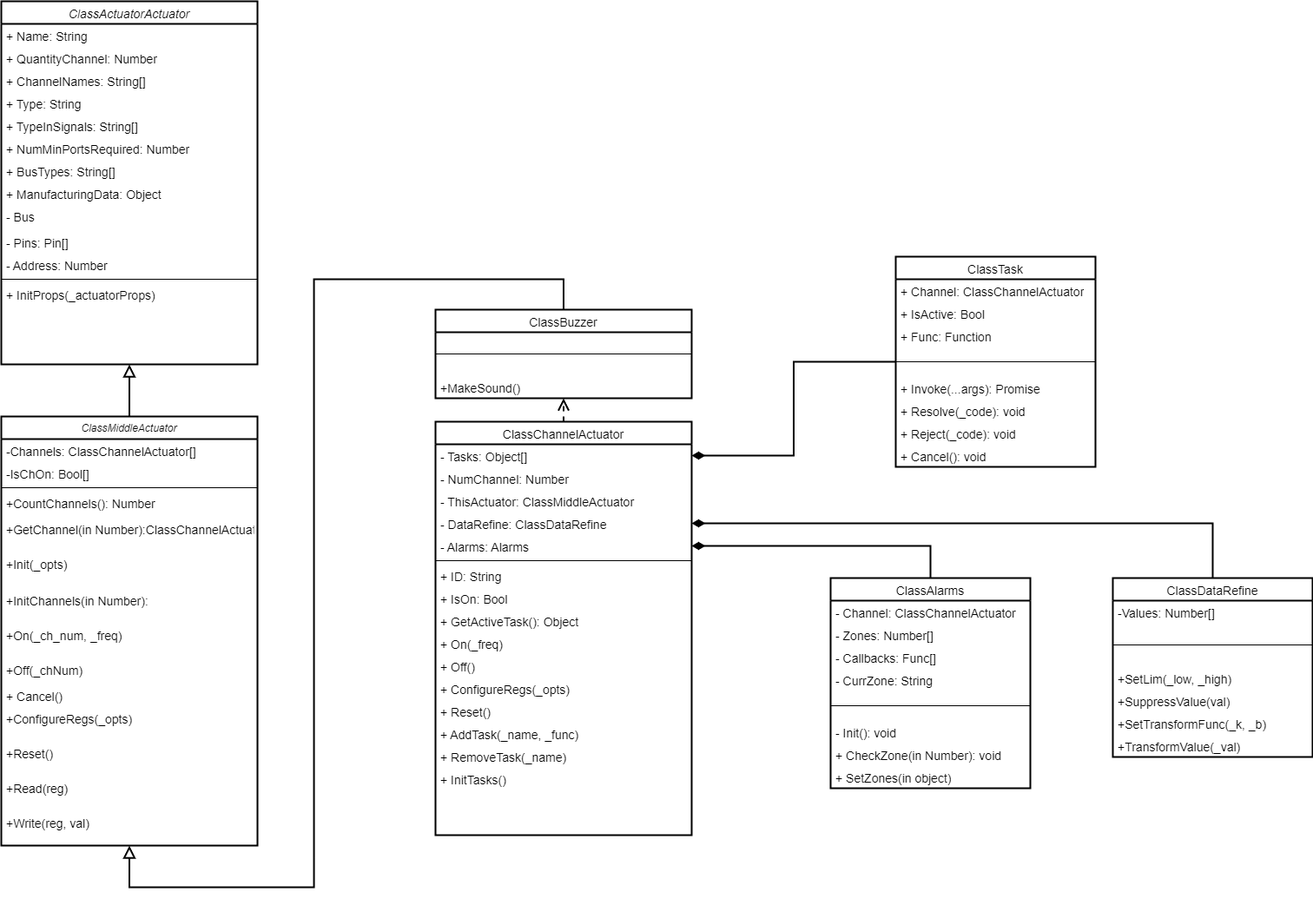
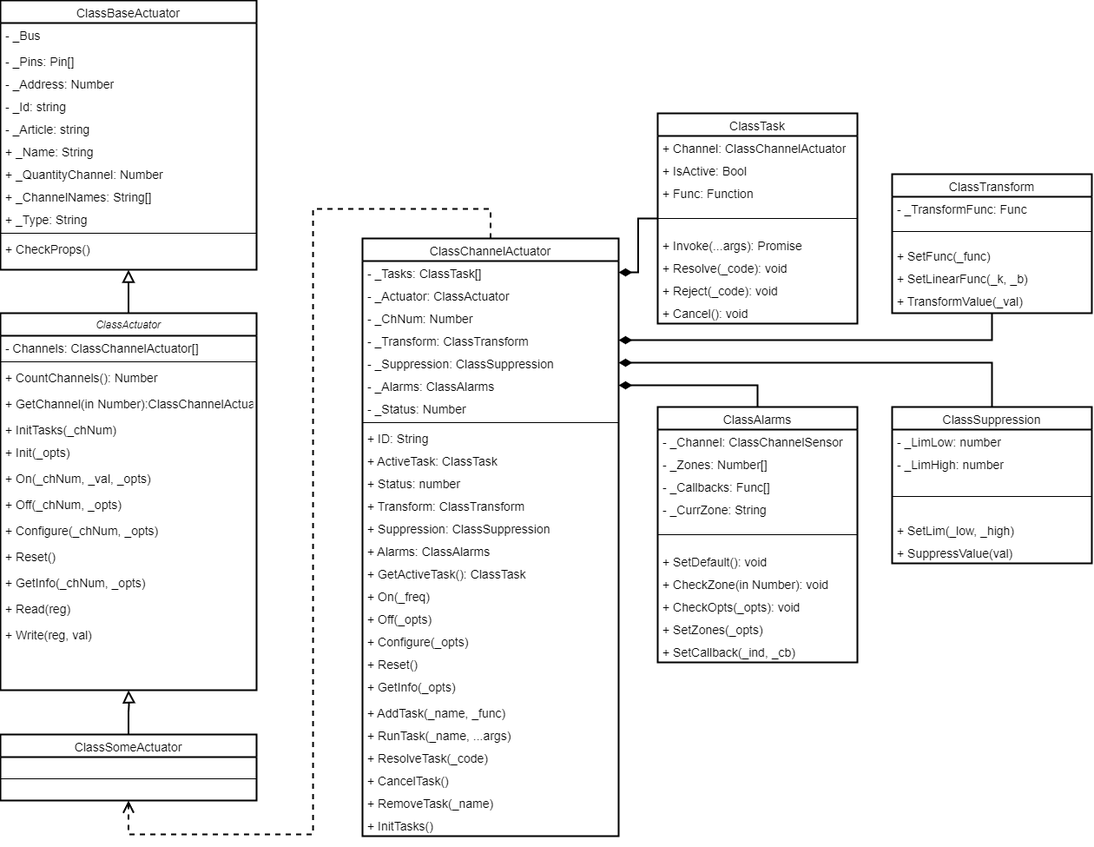
doc: обновлена документация

Changed region(s): [[0.0, 0.0, 1.0, 1.0], [0.9905, 0.1846, 1.0, 0.3692]]

diff --git a/README.md b/README.md
@@ -13,12 +13,12 @@
 ### Описание
 <div style = "color: #555">
 
-Модуль Actuator предназначен для обеспечения разработчиков функционалом для удобной и эффективной работы с актуаторами в рамках фреймворка EcoLight. 
+Модуль Actuator предназначен для обеспечения разработчиков функционалом для удобной и эффективной работы с актуаторами в рамках фреймворка EcoLite. 
 Наделяет актуаторы полями и методами, которые покрывают типовые задачи идентификации и управления. Для этого модуль создает унифицированный интерфейс, разделяя объект актуатора на каналы. 
 Каждый канал отвечает за отдельный аспект работы актуатора.
 Данный подход обеспечивает единообразное взаимодействие с различными типами актуаторов, упрощая процесс учета и делегирования команд.
 
-Одной из важнейших особенностей модуля является заложенный подход к созданию, организации и управлению наборами инструкций, которые выполняются актуатором в асинхронном режиме. В парадигме фреймворка EcoLight такие наборы инструкций именуются тасками (от англ. tasks). Модуль каждого актуатора имеет набор базовых тасков, а функционал рассматриваемой архитектуры позволяет расширять их коллекцию даже во время выполнения программы.   
+Одной из важнейших особенностей модуля является заложенный подход к созданию, организации и управлению наборами инструкций, которые выполняются актуатором в асинхронном режиме. В парадигме фреймворка EcoLite такие наборы инструкций именуются тасками (от англ. tasks). Модуль каждого актуатора имеет набор базовых тасков, а функционал рассматриваемой архитектуры позволяет расширять их коллекцию даже во время выполнения программы.   
 
 Реализованный подход отличается классической работы с актуаторами набором механизмов, которые позволяют
 
@@ -26,22 +26,22 @@
 2. Отменять выполнение последнего вызванного таска;
 3. Составлять цепочки с упорядоченным вызовом тасков.
 
-Также заложенный в модуль функционал включает в себя поэтапную автоматическую обработку вх. сигнала на канал актуатора, что повышает надежность и удобство работы. Этот процесс включает в себя следующие этапы:
+Также заложенный в модуль функционал включает в себя поэтапную автоматическую обработку вх. сигнала на канал актуатора, что облегчает контроль над входным сигналом. Этот процесс включает в себя следующие этапы:
 - Супрессия: входные данные подвергаются ограничению с использованием супрессорной функции. Это обеспечивает то, что значения с актуатора находятся в заданных пределах, что позволяет учесть границы работы актуатора или предотвратить определенные ошибки; 
 - Трансформация линейной функцией: в случаях, когда величину, подаваемую на актуатор необходимо преобразовать (например, задать соответствие между физ.величиной и значением, которое должно быть подано на устройство), применяется линейная функция. Эта функция трансформирует значения согласно коэффициентам, которые задает пользователь;
 - Проверка зоны измерений: значения с актуатора сверяются с зонами измерений, настраиваемые пользователем. Если значение выходит за пределы заданных зон, это активировать соответствующие реакции в виде коллбэков.
 
 Больше об обработке данных в соответствующем [разделе](./README_DATA_REFINE.md#методы). 
 
-Набор классов, обеспечивающих функционал актуатора делитcя на такие части: 
-- Основная, которая состоит из:
-    - ветки классов [ClassAncestorActuator](./README_ANCESTOR.md) и [ClassMiddleActuator](./README_MIDDLE.md), хранящих в себе поля и методы, общих для всех актуаторов;
-    - класса [ClassChannelActuator](README_CHANNEL.md), который представляет собой интерфейс для работы с отдельным каналом актуатора;
-    - класса [ClassTask](README_TASK.md), который представляет сущность таска и осуществляет управление им;
+Набор классов, обеспечивающих функционал датчика, можно условно поделить на следующие части: 
+- Основная:
+    - ветка классов [ClassBaseActuator](./README_ANCESTOR.md) и [ClassActuator](./README_MIDDLE.md), хранящих в себе поля и методы, общие для всех актуаторов;
+    - класс [ClassChannelSensor](README_CHANNEL.md), служит интерфейсом для работы с отдельным каналом актуатора;
 - Сервисная: 
-    - [ClassDataRefine](./README_DATA_REFINE.md) реализует математико-логический аппарат для обработки и корректировки передаваемых значений;
-    - [ClassAlarms](./README_ALARMS.md) добавляет поддержку зон измерения и алармов;  
-- Прикладная - класс, отвечающий за отдельно взятый канал актуатора. Этот класс реализуется вне данного стека наследованием от **ClassMiddleActuator** и реализацией его интерфейсов.
+    - [ClassSuppression и ClassTransform](./README_DATA_REFINE.md) реализует математико-логический аппарат для обработки и корректировки данных с датчика;
+    - [ClassAlarms](./README_ALARMS.md) добавляет поддержку зон измерения и алармов (оповещений/сигналов тревоги);  
+- Прикладная:
+    - классы, наследующиеся от **ClassActuator** и реализующие его функционал для работы с конкретным датчиком. 
 
 <div align='left'>
     <img src="./res/main-diagram.png" alt="Image not found">
@@ -54,42 +54,17 @@
 <div style = "color: #555">
 
 ```js
-//Импорт зависимостей
-const ClassAppError     = require('ModuleAppError.min');
-    require('ModuleAppMath.min').is();
-const ClassMiddleActuator = require('ModuleActuator.min');
-const ClassBuzzer         = require('ModuleBuzzer.min');
-
-//Аргументы для инициализации объекта актуатора
-const actuator_props = ({
-    name: "Buzzer",
-    type: "actuator",
-    channelNames: ['freq'],
-    typeInSignals: ["analog"],
-    quantityChannel: 1,
-    busTypes: [],
-    manufacturingData: {
-        IDManufacturing: [
-            { "Adafruit": "PS1240" }  
-        ],
-        IDsupplier: [
-            { "Adafruit": "PS1240" }  
-        ],
-        HelpSens: "Piezo buzzer"
-    }
-});
 //Инициализация 
-const bz = new ClassBuzzer(actuator_props, { pins: [P2] });
-const ch = bz.GetChannel(0);
+const bz = SensorManager.CreateDevice('00')[0];
 //Запуск работы зуммера с частотой 600 Гц
-ch.On(600);
+bz.On(600);
 //Запуск с другой частотой через 1 сек
 setTimeout(() => { 
-    ch.On(1000);    
+    bz.On(1000);    
 }, 1500);
 //Прекращение работы
 setTimeout(() => { 
-    ch.Off(); 
+    bz.Off(); 
 }, 3000);
 ```
 
@@ -100,13 +75,13 @@ setTimeout(() => {
 
 ```js
 //Вызов одного пика через основной, универсальный таск 
-ch.RunTask('PlaySound', { freq: 300, numRep: 1, prop: 0.5, pulseDur: 800 });  
+bz.RunTask('PlaySound', { freq: 300, numRep: 1, prop: 0.5, pulseDur: 800 });  
 .then(
     // Вызов пика через таск, принимающий частоту и длину импульса 
-    () => ch.RunTask('BeepOnce', 500, 800);
+    () => bz.RunTask('BeepOnce', 500, 800);
 ).then(
     // вызов двойного звукового сигнала
-    () => ch.RunTask('BeepTwice', 800, 500);                   
+    () => bz.RunTask('BeepTwice', 800, 500);                   
 ).then(
     () => { console.log('Done!'); }
 );
@@ -119,7 +94,7 @@ ch.RunTask('PlaySound', { freq: 300, numRep: 1, prop: 0.5, pulseDur: 800 });
 
 ```js
 //Объявление элементарного таска, запускающего зуммер на 3 сек
-ch.AddTask('Beep3sec', (freq) => {
+bz.AddTask('Beep3sec', (freq) => {
     this.On(freq);
     setTimeout(() => {
         this.Off();
@@ -128,7 +103,7 @@ ch.AddTask('Beep3sec', (freq) => {
     }, 3000);
 });
 
-ch.RunTask('Beep3sec', 500);
+bz.RunTask('Beep3sec', 500);
     .then(() => print(`Done after 3 sec!`));
 ```
 
@@ -138,10 +113,10 @@ ch.RunTask('Beep3sec', 500);
 <div style = "color: #555">
 
 ```js
-ch.RunTask('BeepTwice', 500, 1200);
+bz.RunTask('BeepTwice', 500, 1200);
 
 setTimeout(() => {
-    ch.CancelTask();
+    bz.CancelTask();
 }, 1000);
 ```
 

diff --git a/README_MIDDLE.md b/README_MIDDLE.md
@@ -12,7 +12,7 @@
 
 Является ключевой составляющей модуля [Actuator](./README.md). Смысл данного класса заключается в унификации работы с актуаторами и их каналами, что упрощает работу прикладным разработчикам в рамках фрейморка EcoLight. Наследуется от [ClassAncestorActuator](./README_ANCESTOR.md).
 Реализует важнейшие принципы **ModuleActuator**:
-- Обработка вх. сигнала: в точке запуска базового метода работы актуатора есть прослойка, через которую проходит ключевой аргумент (частота), позволяя применять ограничительные функции, трансформирующую линейную функцию и проверку значения на нахождение в заданных зонах. Это позволяет предотвращать ошибки, связанные с передаачей некорректных аргументов (см. подробнее в [ClassDataRefine](./README_DATA_REFINE.md#обработка-значений-с-датчика));
+- Обработка вх. сигнала: в точке запуска базового метода работы актуатора есть прослойка, через которую проходит ключевой аргумент (частота), позволяя применять ограничительные функции, трансформирующую линейную функцию и проверку значения на нахождение в заданных зонах. Это позволяет предотвращать ошибки, связанные с передачей некорректных аргументов (см. подробнее в [ClassDataRefine](./README_DATA_REFINE.md#обработка-значений-с-датчика));
 - Автоматическое создание каналов: при инициализации "реального" актутора рассматриваемый класс автоматически создает [объекты-каналы](./README_CHANNEL.md), которые композируются в поле этого класса. Это упрощает создание и управление каналами актуатора;
 - Определение сигнатур методов: класс определяет сигнатуры основных методов, которые после переопределения будут доступны для работы с "реальными" актуаторами и их каналами. Это обеспечивает единый интерфейс для инициализации, запуска, настройки и управления актуаторами.
 </div>
@@ -21,7 +21,6 @@
 <div style = "color: #555">
 
 - <mark style="background-color: lightblue">_Channels</mark> - массив с автоматически инстанцирующимися объектами ClassChannelActuator;
-- <mark style="background-color: lightblue">_IsChOn</mark> - массив булевых значений, в котором i-й элемент указывает, подается ли сигнал на i-й канал в данный момент.
 </div>
 
 ### Аксессоры
@@ -33,14 +32,14 @@
 ### Методы
 <div style = "color: #555">
 
-- <mark style="background-color: lightblue">InitСhannels()</mark> - инициализирует объекты каналов, запускает обработку аргументов, поступающих на метод On();
-- <mark style="background-color: lightblue">GetInfo()</mark> - обязывает вернуть объект, хранящий информацию об актуаторе;
 - <mark style="background-color: lightblue">Init(_opts)</mark> - обязывает выполнить инициализацию актуатора, применив необходимые для его работы настройки;
-- <mark style="background-color: lightblue">ConfigureRegs(_opts)</mark> - обязывает выполнить дополнительную конфигурацию актуатора. Это настройки, которые необходимы для ряда задач, но могут переопределяться в процессе работы, и потому вынесены из метода Init();
+
 - <mark style="background-color: lightblue">GetChannel(_chNum)</mark> - возвращает объект i-го канала;
-- <mark style="background-color: lightblue">On(_chNum, _val)</mark> - обязывает начать работу определенного канала актуатора;
-- <mark style="background-color: lightblue">Off(_chNum)</mark> - обязывает прекратить подачу сигнала на актуатор;
-- <mark style="background-color: lightblue">Reset()</mark> - обязывает выполнить перезагрузку актуатора;
+- <mark style="background-color: lightblue">On(_chNum, _val, _opts)</mark> - обязывает начать работу определенного канала актуатора;
+- <mark style="background-color: lightblue">Off(_chNum, _opts)</mark> - обязывает прекратить подачу сигнала на актуатор;
+- <mark style="background-color: lightblue">Configure(_chNum, _opts)</mark> - обязывает выполнить дополнительную конфигурацию актуатора;
+- <mark style="background-color: lightblue">Reset(_chNum, _opts)</mark> - обязывает выполнить перезагрузку актуатора;
+- <mark style="background-color: lightblue">GetInfo(_chNum, _opts)</mark> - обязывает вернуть объект, хранящий информацию об актуаторе;
 - <mark style="background-color: lightblue">Read(_reg)</mark> - обязывает выполнить чтение с регистра;
 - <mark style="background-color: lightblue">Write(_reg, _val)</mark> - обязывает выполнить запись в регистр.
 </div>

diff --git a/README_DATA_REFINE.md b/README_DATA_REFINE.md
@@ -1,6 +1,6 @@
 <div style = "font-family: 'Open Sans', sans-serif; font-size: 16px">
 
-# ClassDataRefine
+# ClassTransform
 <div style = "color: #555">
     <p align="center">
     <img src="./res/logo.png" width="400" title="hover text">
@@ -10,40 +10,56 @@
 ### Описание
 <div style = "color: #555">
 
-Сервисный класс из стека [ModuleActuator](README.md). Назначен для обеспечении математической обработки вх.сигнала актуатора. Включает в себя:
-- Супрессию входных значений;
-- Трансформацию линейной функцией.
-Объект класса автоматически инициализируется в поле *_DataRefine* класса [ClassChannelActuator](./README_CHANNEL.md). Методы для преобразования данных вызываются из декоратора к методу *On(_freq)* класса канала.
+Сервисный класс из стека [ModuleActuator](README.md). Предназначен для обеспечении математической обработки входного сигнала актуатора (линейной либо иной).
+
+Объект класса автоматически инициализируется в поле *_Transform* класса [ClassChannelActuator](./README_CHANNEL.md). Методы для преобразования данных вызываются автоматически при обработке значений измерительного канала.
+
 </div>
 
 ### Поля
 <div style = "color: #555">
 
-- <mark style="background-color: lightblue">_Values</mark> - массив с используемыми коэффициентами;
+- <mark style="background-color: lightblue">_TransformFunc</mark> - функция трансформации, которая вызывается из ClassChannelActuator при обработке вх. сигнала. По-умолчанию равна `f(x): x => x` и не влияет на показания, но может быть переопределена пользователем;
+
 </div>
 
 ### Методы
 <div style = "color: #555">
 
-- <mark style="background-color: lightblue">SetOutLim(_limLow, _limHigh)</mark> - устанавливает значения ограничителей входных значений;
-- <mark style="background-color: lightblue">SupressOutValue(_val)</mark> - возвращает число, прошедшее через супрессорную функцию;
-- <mark style="background-color: lightblue">SetTransmissionOut(_k, _b)</mark> - устанавливает коэффициенты k и b трансформирующей функции канала;
-- <mark style="background-color: lightblue">TransformOutValue(_val)</mark> - возвращает значение, прошедшее через трансформирующую функцию.
+- <mark style="background-color: lightblue">SetFunc(_func)</mark> - устанавливает трансформационную функцию для вх. сигнала актуатора. Вызов данного метода без передачи в него аргумента, установит функцию по-умолчанию;
+- <mark style="background-color: lightblue">SetLinearFunc(_k, _b)</mark> - устанавливает линейную функцию с коэффициентами k и b;
+- <mark style="background-color: lightblue">TransformValue(val)</mark> - возвращает значение, прошедшее через трансформирующую функцию.
 
 <div align='left'>
     <img src="./res/math.png" alt="Image not found">
 </div>
-
-<div align='left'>
-    <img src="./res/data_transformation.png" alt="Image not found">
 </div>
 
-</div>
+# ClassSuppression
 
-### Зависимости
+### Описание
 <div style = "color: #555">
 
-- <mark style="background-color: lightblue">[ClassAppError](https://github.com/Konkery/ModuleAppError/blob/main/README.md)</mark>
+Сервисный класс из стека [ModuleActuator](README.md). Предназначен для обеспечении математической обработки вх. сигнала актуатора и позволяет настроить ограничение (супрессию) входных значений.
+
+Объект класса автоматически инициализируется в поле *_Suppression* класса [ClassChannelActuator](./README_CHANNEL.md). Методы для преобразования данных вызываются автоматически при обращении к исполнительному каналу.
+
+</div>
+
+### Поля
+<div style = "color: #555">
+
+- <mark style="background-color: lightblue">_Low</mark> - число, нижняя граница. По-умолчанию **-Infinity**;
+- <mark style="background-color: lightblue">_High</mark> - число, верхняя граница. По-умолчанию **Infinity**;
+
+</div>
+
+### Методы
+<div style = "color: #555">
+
+- <mark style="background-color: lightblue">SetLim(_limLow, _limHigh)</mark> - устанавливает значения ограничителей входных значений;
+- <mark style="background-color: lightblue">SuppressValue(val)</mark> - возвращает число, прошедшее через супрессорную функцию;
+
 </div>
 
 </div>

diff --git a/README_CHANNEL.md b/README_CHANNEL.md
@@ -20,29 +20,34 @@
 ### Поля
 <div style = "color: #555">
 
-- <mark style="background-color: lightblue">_ThisActuator</mark> - ссылка на основной объект актуатора;
-- <mark style="background-color: lightblue">_NumChannel</mark> - номер канала;
-- <mark style="background-color: lightblue">_DataRefine</mark> - объект класса ClassDataRefine;
+- <mark style="background-color: lightblue">_Actuator</mark> - ссылка на основной объект актуатора;
+- <mark style="background-color: lightblue">_ChNum</mark> - номер канала;
 - <mark style="background-color: lightblue">_Alarms</mark> - объект класса ClassAlarms;
+- <mark style="background-color: lightblue">_Transform</mark> - объект класса ClassTransform;
+- <mark style="background-color: lightblue">_Suppression</mark> - объект класса ClassSuppression;
 </div>
 
 ### Аксессоры
 <div style = "color: #555">
 
 - <mark style="background-color: lightblue">CountChannels</mark> - возвращает количество корректно инициализированных каналов типа **ClassChannelActuator**;
+- <mark style="background-color: lightblue">Suppression</mark> - возвращает объект *ClassSuppression*;
+- <mark style="background-color: lightblue">Transform</mark> - возвращает объект *ClassTransform*;
+- <mark style="background-color: lightblue">Alarms</mark> - возвращает объект *ClassAlarms* после его инициализации;
 - <mark style="background-color: lightblue">ID</mark> - возвращает идентификатор актуатора (канала);
-- <mark style="background-color: lightblue">IsOn</mark> - указывает, подается ли сигнал на канал в данный момент;
 - <mark style="background-color: lightblue">ActiveTask()</mark> - возвращает активный в данный момент таск либо null.
 </div>
 
 ### Методы
 <div style = "color: #555">
 
-- <mark style="background-color: lightblue">On(_freq)</mark>
-- <mark style="background-color: lightblue">Off()</mark> 
-- <mark style="background-color: lightblue">ConfigureRegs()</mark>
+- <mark style="background-color: lightblue">On(_val, _opts)</mark>
+- <mark style="background-color: lightblue">Off(_opts)</mark> 
+- <mark style="background-color: lightblue">Configure(_opts)</mark>
+- <mark style="background-color: lightblue">Reset(_opts)</mark>
+- <mark style="background-color: lightblue">GetInfo(_opts)</mark>
 
-Перечисленные выше методы ссылаются на методы, объявленные в **ClassMiddleActuator** и реализованные в прикладном классе акутатора. Их развернутое описание [по ссылке](./README_MIDDLE.md#методы).
+Перечисленные выше методы ссылаются на методы, объявленные в **ClassActuator** и реализованные в прикладном классе актутатора. Их развернутое описание [по ссылке](./README_MIDDLE.md#методы).
 
 - <mark style="background-color: lightblue">InitTasks()</mark> - инициализирует базовые таски актуатора;
 - <mark style="background-color: lightblue">AddTask(_name, _func)</mark> - создает новый таск на основе переданной функции и помещает его в коллекцию по переданному имени. Создает одноименный геттер на данный таск;

diff --git a/README_ANCESTOR.md b/README_ANCESTOR.md
@@ -16,34 +16,28 @@
 ### Конструктор
 <div style = "color: #555">
 
-Конструктор принимает два параметра: объект типа **ActuatorPropsType** и объект типа **ActuatorOptsType**.
+Конструктор принимает объект типа **ActuatorOptsType**, наполнение которого определяется конфигом. Единственный нюанс в том, что при получении данных из конфига, еще до вызова конструктора объекта датчика, строковое представление *bus* и *pins* преобразуется в js-объекты. 
 
-Образец параметра *_actuatorProps* типа **ActuatorPropsType**: 
-```js
-const act_props = ({
-    name: "Buzzer",
-    type: "actuator",
-    channelNames: ["freq"],
-    typeInSignals: ["analog"],
-    quantityChannel: 1,
-    busTypes: [],
-    manufacturingData: {
-        IDManufacturing: [
+Рассмотрим основной набор параметров на примере конфига к [Buzzer](https://github.com/Konkery/ModuleBuzzer). Детальное пояснение к параметрам описано [ниже](./README_ANCESTOR.md/#поля).
+
+```json
+"00": {
+    "name": "Buzzer",
+    "type": "actuator",
+    "id": "00",
+    "article": "02-501-0204-201-0001",
+    "channelNames": ["freq"],
+    "typeInSignals": ["analog"],
+    "quantityChannel": 1,
+    "manufacturingData": {
+        "IDManufacturing": [
             { "Adafruit": "4328435534" }  
         ],
-        IDsupplier: [
+        "IDsupplier": [
             { "Adafruit": "4328435534" }  
         ],
-        HelpSens: "buzzer"
+        "HelpSens": "buzzer"
     }
-});
-```
-Образец параметра *_opts* типа **ActuatorOptsType**:
-```js
-const _opts = {
-    bus: bus,           //объект шины
-    pins: [B14, B15],   //массив используемых пинов 
-    address: 0x29       //адрес на шине
 }
 ```
 
@@ -61,7 +55,6 @@ const _opts = {
 - <mark style="background-color: lightblue">_ChannelNames</mark> - массив с названиями каналов;
 - <mark style="background-color: lightblue">_TypeInSignals</mark> - типы входых сигналов;
 - <mark style="background-color: lightblue">_QuantityChannel</mark> - число физических каналов актуатора;
-- <mark style="background-color: lightblue">_BusTypes</mark> - массив со строковыми представлениями типов шин, на которых может работать актуатор;
 - <mark style="background-color: lightblue">_ManufacturingData</mark> - объект со сведениями о производителе и поставщике актуатора, а так же его односложное описание;
 </div>
 
@@ -76,9 +69,9 @@ const _opts = {
 
 Данный класс применяется исключительно как звено наследования и не используется независимо. Потому наследники обязаны иметь такие же параметры конструктора, который ввиду особенностей среды выполнения Espruino вызывается таким образом:
 ```js
-ClassAncestorActuator.apply(this, [_actuatorProps, _opts]);
+ClassAncestorActuator.apply(this, [_opts]);
 /// либо
-ClassAncestorActuator.call(this, _actuatorProps, _opts);
+ClassAncestorActuator.call(this, _opts);
 ```
 </div>
 
